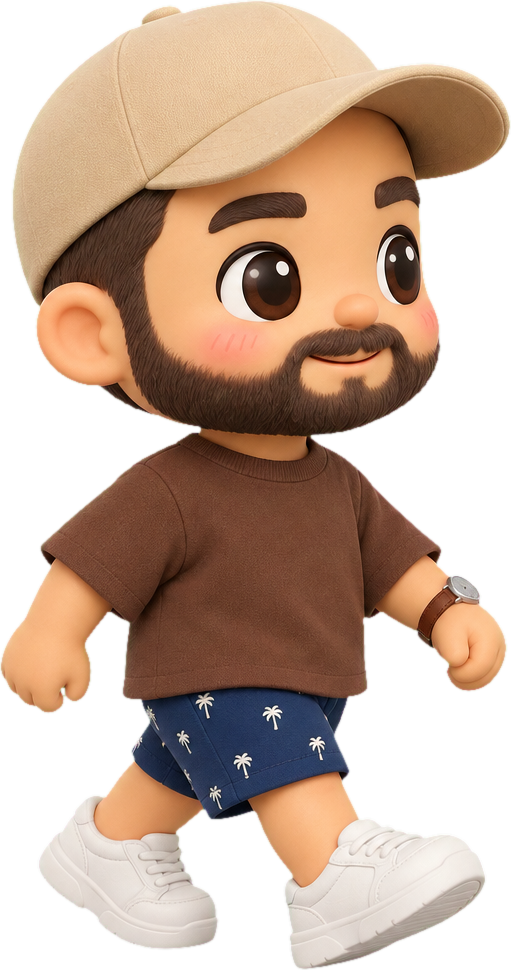
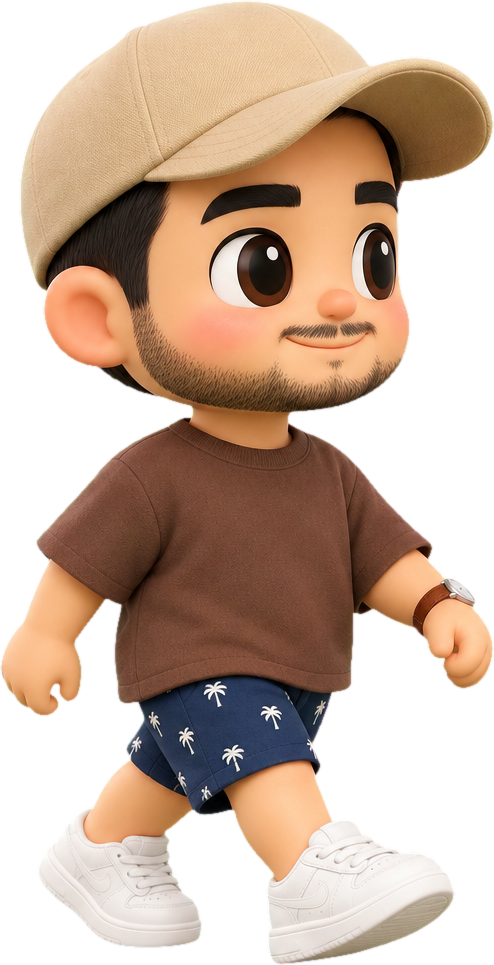
Ajusta mascote do Wez: barba feita cinza-escuro, cabelo preto e queixo quadrado
Claude-Session: https://claude.ai/code/session_019N354in63g1zD5HF5LCsMh

diff --git a/mascote/index.html b/mascote/index.html
@@ -14,7 +14,8 @@
     --bone: #e5c2a5;         /* boné */
     --areia: #efe3cf;
     --cafe: #80523a;         /* camiseta */
-    --barba: #4a2f1d;
+    --barba: #3f3a37;         /* barba feita cinza-escuro */
+    --cabelo: #1f1a17;
     --pele: #f2b486;
     --blush: #ec9e7f;
     --tenis: #efe8e3;
@@ -176,8 +177,8 @@
 
 <header class="hero">
   <h1 class="hero-nome" aria-label="Wez">Wez</h1>
-  <img class="hero-boneco" src="renders/wez-hero-recorte.png" width="491" height="972"
-       alt="Wez como boneco de vinil: boné bege, barba cheia, camiseta marrom, bermuda azul com coqueirinhos, acenando">
+  <img class="hero-boneco" src="renders/wez-hero-recorte.png" width="488" height="966"
+       alt="Wez como boneco de vinil: boné bege, barba feita cinza-escuro, queixo quadrado, camiseta marrom, bermuda azul com coqueirinhos, acenando">
   <div class="hero-legenda">
     <span>O mascote oficial do canal</span>
     <span>Role para conhecer ↓</span>
@@ -192,8 +193,9 @@
         <p class="dna-intro">Um boneco de vinil fofo, de cabeça grande e corpo pequeno, mas com os traços que todo mundo reconhece de longe.</p>
         <ul class="tracos">
           <li style="--cor: var(--bone)"><div><strong>Boné bege de aba curva</strong><span>Sempre na cabeça, levemente torto.</span></div></li>
-          <li style="--cor: var(--barba)"><div><strong>Barba cheia e aparada</strong><span>Fecha a mandíbula inteira e se liga ao bigode.</span></div></li>
-          <li style="--cor: var(--tinta)"><div><strong>Sobrancelhas grossas</strong><span>Retas, escuras, dando o olhar calmo de sempre.</span></div></li>
+          <li style="--cor: var(--barba)"><div><strong>Barba feita, cinza-escuro</strong><span>Curtinha e rente, contorna a mandíbula e se liga ao bigode.</span></div></li>
+          <li style="--cor: var(--pele)"><div><strong>Queixo quadrado</strong><span>Mandíbula marcada, a marca registrada do rosto dele.</span></div></li>
+          <li style="--cor: var(--cabelo)"><div><strong>Cabelo preto e sobrancelhas grossas</strong><span>Retas, escuras, dando o olhar calmo de sempre.</span></div></li>
           <li style="--cor: var(--cafe)"><div><strong>Camiseta marrom larguinha</strong><span>Gola careca, manga curta.</span></div></li>
           <li style="--cor: #c9ccd2"><div><strong>Relógio prateado</strong><span>Pulseira de couro marrom, no pulso esquerdo.</span></div></li>
           <li style="--cor: var(--marinho)"><div><strong>Bermuda de coqueirinhos</strong><span>Azul-marinho com estampa branca.</span></div></li>
@@ -203,9 +205,11 @@
         <div class="chip" role="listitem" style="--c: var(--bone)"><b>Boné</b><code>#E5C2A5</code></div>
         <div class="chip" role="listitem" style="--c: var(--pele)"><b>Pele</b><code>#F2B486</code></div>
         <div class="chip" role="listitem" style="--c: var(--cafe); --t: var(--areia)"><b>Camiseta</b><code>#80523A</code></div>
-        <div class="chip" role="listitem" style="--c: var(--barba); --t: var(--areia)"><b>Barba</b><code>#4A2F1D</code></div>
+        <div class="chip" role="listitem" style="--c: var(--barba); --t: var(--areia)"><b>Barba</b><code>#3F3A37</code></div>
+        <div class="chip" role="listitem" style="--c: var(--cabelo); --t: var(--areia)"><b>Cabelo</b><code>#1F1A17</code></div>
         <div class="chip" role="listitem" style="--c: var(--marinho); --t: var(--areia)"><b>Bermuda</b><code>#22305A</code></div>
         <div class="chip" role="listitem" style="--c: var(--blush)"><b>Bochecha</b><code>#EC9E7F</code></div>
+        <div class="chip" role="listitem" style="--c: var(--tenis)"><b>Tênis</b><code>#EFE8E3</code></div>
       </div>
     </div>
   </section>
@@ -249,7 +253,7 @@
       <div class="chao"></div>
       <div class="andador" id="andador">
         <div class="sombra"></div>
-        <img src="renders/wez-andando-recorte.png" width="511" height="970" alt="Wez andando">
+        <img src="renders/wez-andando-recorte.png" width="494" height="965" alt="Wez andando">
       </div>
     </div>
   </section>
